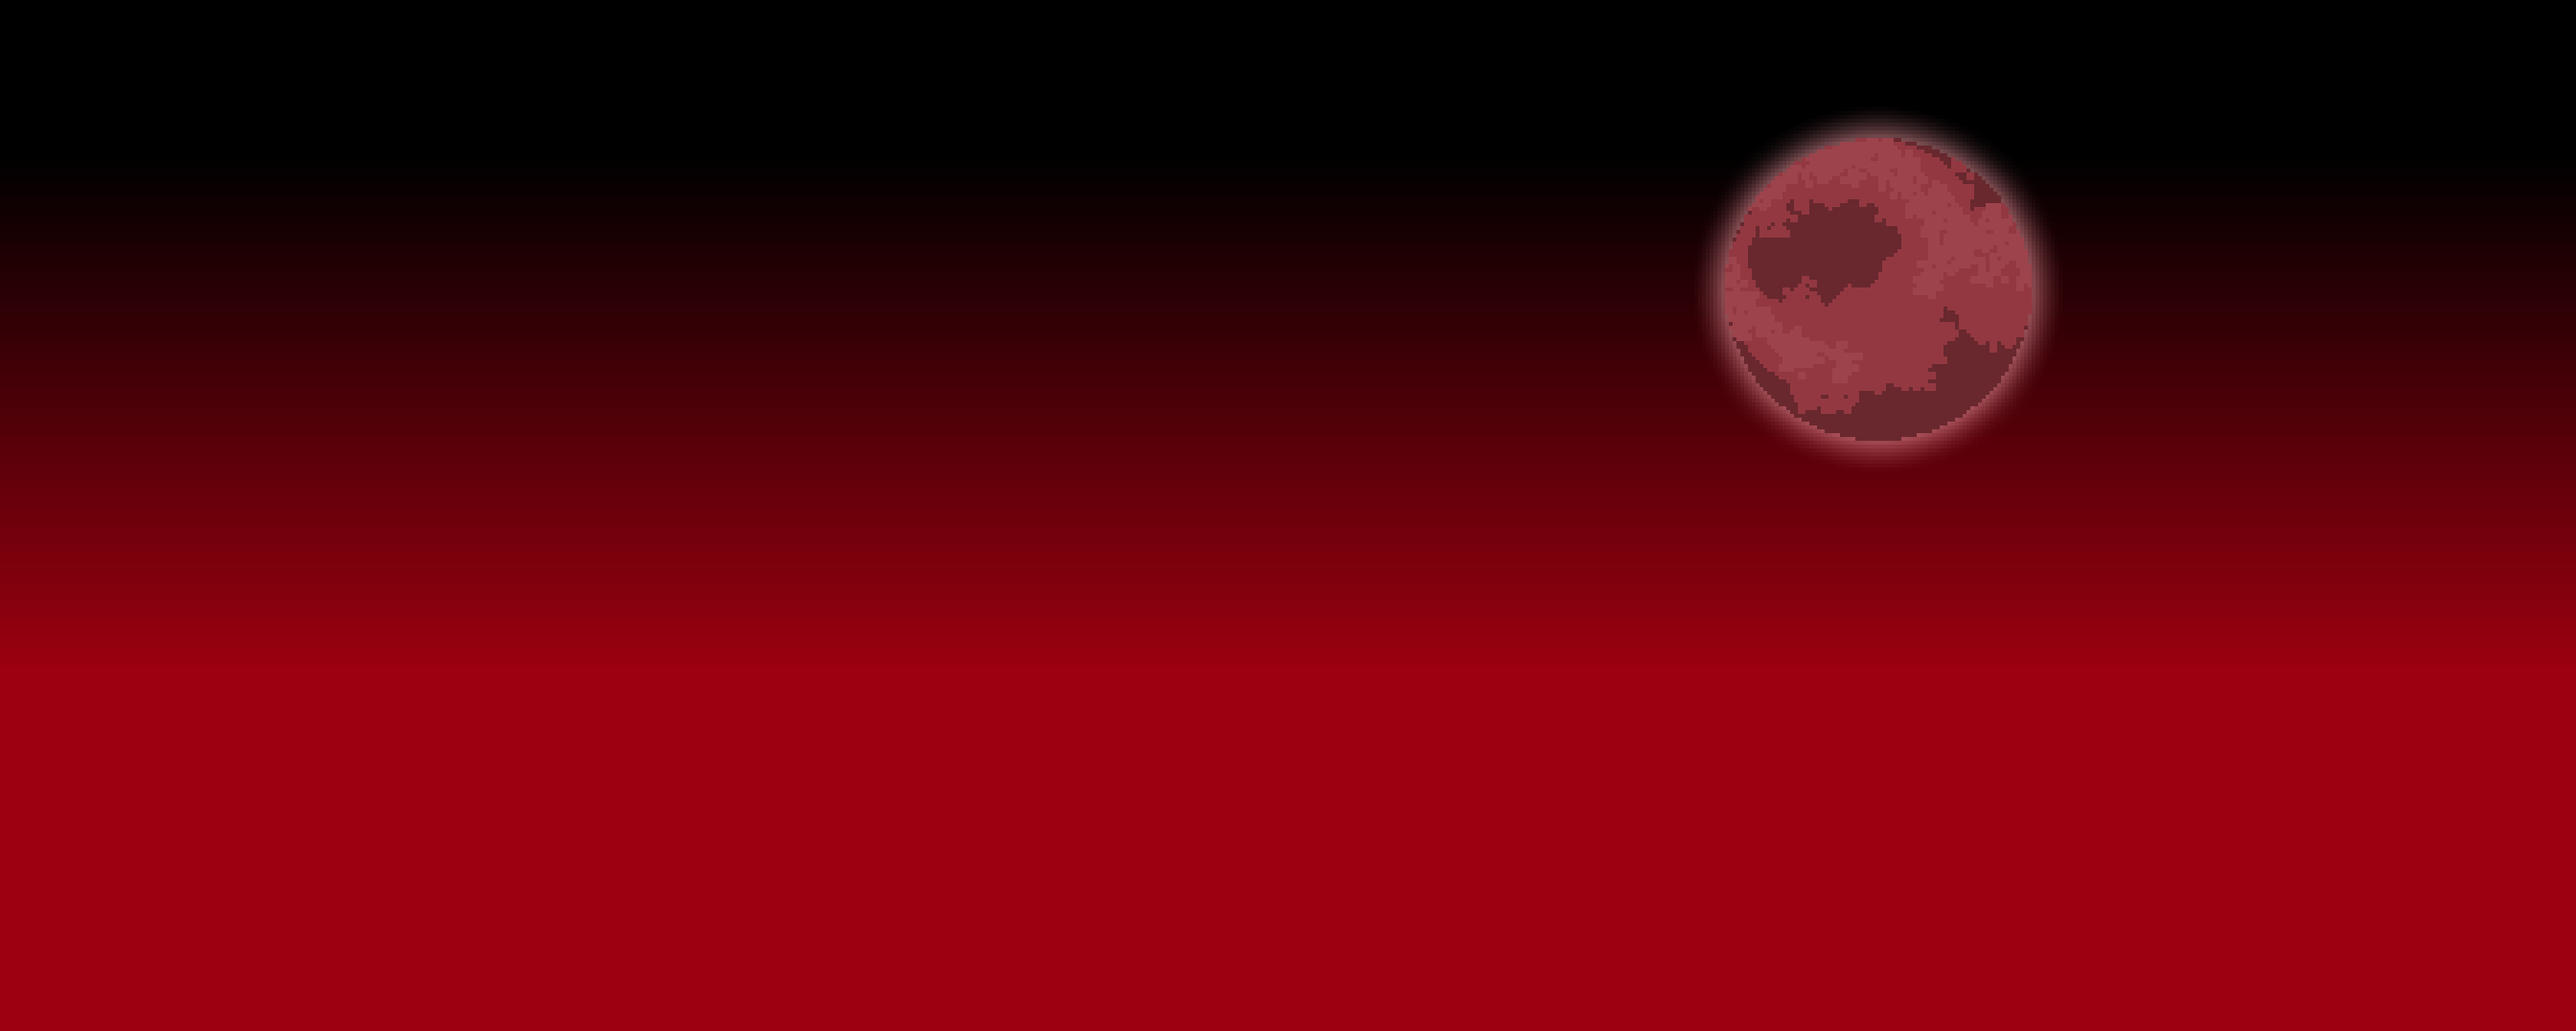
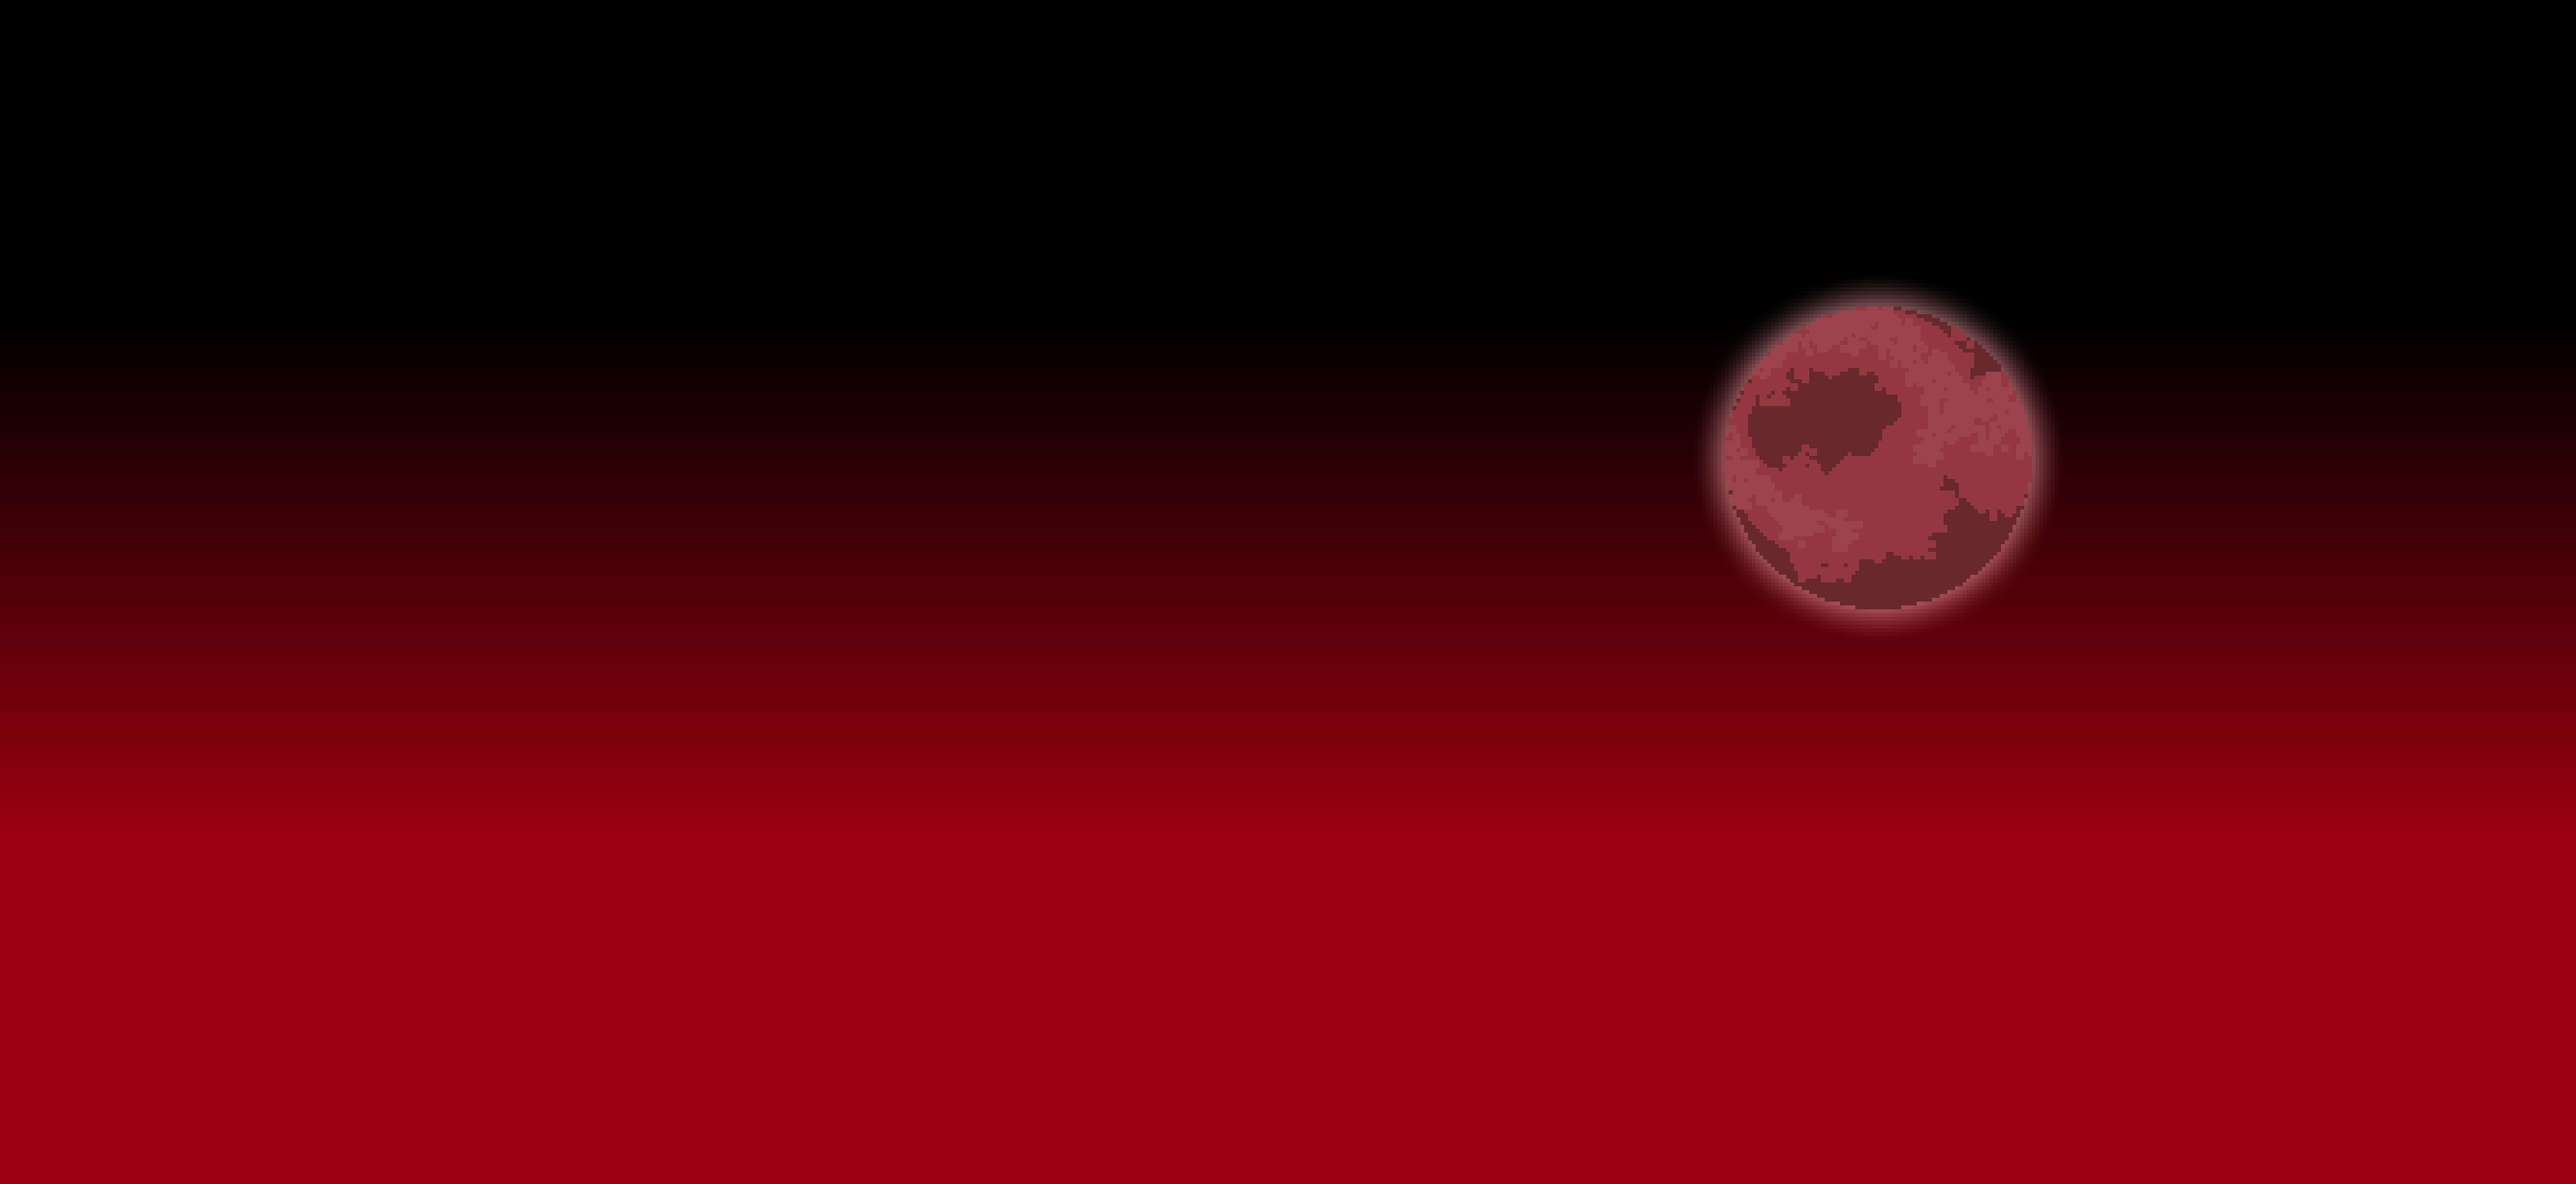
超背景

diff --git a/main.cpp b/main.cpp
@@ -9,17 +9,20 @@ int WINAPI WinMain(HINSTANCE, HINSTANCE, LPSTR, int) {
 	// ライブラリの初期化
 	Novice::Initialize(kWindowTitle, SCREEN_WIDTH, SCREEN_HEIGHT);
 
-	//あしをひっぱるな！！！しがみつき！！！
+	//頑張ったな！！！しがみつき！！！
 
 	Controller::SetLeftStickDeadZone(0, 14000);
 
+	clock_t offset;
+	offset = clock();
+	int FPS = 0;
 
 	int tex = Novice::LoadTexture("white1x1.png");
-	int quadRedEffectImg = Novice::LoadTexture("./Resources/Images/Effect01.png");
-	int circleRedEffectImg = Novice::LoadTexture("./Resources/Images/Effect02.png");
+	int quadRedEffectImg = Novice::LoadTexture("./Resources/Images/Effect01n.png");
+	int circleRedEffectImg = Novice::LoadTexture("./Resources/Images/Effect02n.png");
 	int circleEffectImg = Novice::LoadTexture("./Resources/Images/Effect03.png");
-	int quadBlueEffectImg = Novice::LoadTexture("./Resources/Images/Effect04.png");
-	int CircleBlueEffectImg = Novice::LoadTexture("./Resources/Images/Effect05.png");
+	int quadBlueEffectImg = Novice::LoadTexture("./Resources/Images/Effect04n.png");
+	int CircleBlueEffectImg = Novice::LoadTexture("./Resources/Images/Effect05n.png");
 	int mainaBladeImg = Novice::LoadTexture("./Resources/Images/mainblade.png");
 	int upMainaBladeImg = Novice::LoadTexture("./Resources/Images/upmainblade.png");
 	int downMainaBladeImg = Novice::LoadTexture("./Resources/Images/downmainblade.png");
@@ -42,9 +45,12 @@ int WINAPI WinMain(HINSTANCE, HINSTANCE, LPSTR, int) {
 	int bossleftarmImg = Novice::LoadTexture("./Resources/Images/Boss/LeftArm.png");
 	int ziki = Novice::LoadTexture("./Resources/Images/ziki.png");
 
-	int bg1_gra = Novice::LoadTexture("./Resources/images/Background/Background1.png");
+	int bg1_gra = Novice::LoadTexture("./Resources/images/Background/Background1.png"); //bg = background
 	int bg2_gra = Novice::LoadTexture("./Resources/images/Background/Background2.png");
 	int bg3_gra = Novice::LoadTexture("./Resources/images/Background/Background3.png");
+	int bg5_gra = Novice::LoadTexture("./Resources/images/Background/Background5.png");
+	int bg6_gra = Novice::LoadTexture("./Resources/images/Background/Background6.png");
+	int bg7_gra = Novice::LoadTexture("./Resources/images/Background/Background7.png");
 
 	//int background = Novice::LoadTexture("./Resources/Images/background.png");
 	Randam::SRAND();
@@ -63,7 +69,7 @@ int WINAPI WinMain(HINSTANCE, HINSTANCE, LPSTR, int) {
 		///
 		/// ↓更新処理ここから
 		///
-		screen.Scroll_update(playermain.GetPlayerQuad().LeftTop.x, 1.25);
+		screen.Scroll_update(playermain.GetPlayerQuad().LeftTop.x, playermain.GetPlayerQuad().LeftTop.y, 1.25);
 
 		switch (scene)
 		{
@@ -89,7 +95,7 @@ int WINAPI WinMain(HINSTANCE, HINSTANCE, LPSTR, int) {
 					if(boss.IsLife==true) {
 
 						///デバック用
-						boss.IsLife = false;
+						//boss.IsLife = false;
 						///デバック用
 
 						boss.UpDate();
@@ -215,6 +221,9 @@ int WINAPI WinMain(HINSTANCE, HINSTANCE, LPSTR, int) {
 		}
 		
 		
+		
+		FPS++;
+		if (FPS >= 60) FPS = 0;
 
 		///
 		/// ↑更新処理ここまで
@@ -258,7 +267,7 @@ int WINAPI WinMain(HINSTANCE, HINSTANCE, LPSTR, int) {
 			//ステージ描画処理
 			//背景d
 
-			background.Draw(screen, bg1_gra, bg2_gra, bg3_gra);
+			background.Draw(screen, bg1_gra, bg2_gra, bg3_gra,bg5_gra,bg6_gra, bg7_gra);
 
 			//Novice::DrawBox(0, 0, SCREEN_WIDTH, SCREEN_HEIGHT, 0.0f, BLACK, kFillModeSolid);
 			//Novice::SetBlendMode(kBlendModeAdd);
@@ -374,6 +383,10 @@ int WINAPI WinMain(HINSTANCE, HINSTANCE, LPSTR, int) {
 			Feed::Feedout(feedoutT, 0.05f, SCREEN_WIDTH, SCREEN_HEIGHT);
 		}
 		
+		
+		Novice::ScreenPrintf(0, 400, "FPS:%0.1f", 1.0f / ((double)(clock() - offset) / CLOCKS_PER_SEC));
+		offset = clock();
+
 		///
 		/// ↑描画処理ここまで
 		///

diff --git a/PlayerMain.cpp b/PlayerMain.cpp
@@ -27,14 +27,14 @@ void PlayerMain::Move()
 	//Speed.y = 0;
 
 	if (Controller::IsStickDirection(0, Controller::lsdRIGHT) || Key::IsPressed(DIK_D)) {
-		Speed.x = 10;
+		Speed.x = 8;
 		if (attackstarttime == -1) {
 			FaceRight = true;
 		}
 	}
 
 	if (Controller::IsStickDirection(0, Controller::lsdLEFT) || Key::IsPressed(DIK_A)) {
-		Speed.x = -10;
+		Speed.x = -8;
 		if (attackstarttime == -1) {
 			FaceRight = false;
 		}
@@ -44,12 +44,14 @@ void PlayerMain::Move()
 		if (attackstarttime == -1) {
 			FaceUp = true;
 		}
+		//Speed.y = 1;
 	}
 	else {
 		if (attackstarttime == -1) {
 			FaceUp = false;
 		}
 	}
+
 
 	if (Controller::IsStickDirection(0, Controller::lsdDOWN) || Key::IsPressed(DIK_S)) {
 		//Speed.y = -1;
@@ -97,7 +99,7 @@ void PlayerMain::Move()
 			}
 		}
 		DashTime++;
-		if (DashTime > 2) {
+		if (DashTime > 6) {
 			DashFlag = false;
 			DashAvoid = false;
 			DashTime = 0;
@@ -121,6 +123,8 @@ void PlayerMain::Move()
 			Gravity -= 0.18;
 		}
 	}
+	
+	//Gravity = 0;
 
 	Player.Pos.x += Speed.x + OtherSpeed.x + HitBack.x;
 	Player.Pos.y += (Speed.y + OtherSpeed.y + HitBack.y + Gravity) * G;
@@ -339,12 +343,12 @@ void PlayerMain::Draw(Screen& screen,int texture)
 
 	if (HitCoolDown % 2 == 0 || HitCoolDown == 0) {
 			screen.DrawQuad2Renban(ImageQuad, Player.SrcX, 0, 40, 64, 1, 60, Player.AnimeFlame, texture, Player.Color, FaceRight);
-			screen.DrawQuad2Renban(Player.Quad, Player.SrcX, 0, 40, 64, 1, 60, Player.AnimeFlame, 0, Player.Color, FaceRight);
+			//screen.DrawQuad2Renban(Player.Quad, Player.SrcX, 0, 40, 64, 1, 60, Player.AnimeFlame, 0, Player.Color, FaceRight);
 	}
 
 	screen.DrawBox(Sword.Quad.LeftTop.x, Sword.Quad.LeftTop.y, Sword.HitBoxSize.x, Sword.HitBoxSize.y, 0, 0x0000FF7F, kFillModeSolid);
 
-	screen.DrawLine(0, FLOOR, SCREEN_WIDTH * 1.25, FLOOR, RED);
+	//screen.DrawLine(0, FLOOR, SCREEN_WIDTH * 1.25, FLOOR, RED);
 
 	for (int i = 0; i < HP; i++) {
 		Novice::DrawEllipse( 100 + 100 * i, 930 , 50,50,0, 0xFF3399FF,kFillModeSolid);

diff --git a/Background.cpp b/Background.cpp
@@ -1,11 +1,15 @@
 #include "Background.h"
 
-void Background::Draw(Screen& screen, int bg1, int bg2, int bg3)
+void Background::Draw(Screen& screen, int bg1, int bg2, int bg3, int bg5, int bg6, int bg7)
 {
 
-	Novice::DrawSprite(-400 - screen.Scroll.x * 0.1, 0, bg3, 1, 1, 0, WHITE);
-	Novice::DrawSprite(0 - screen.Scroll.x * 0.9, 0, bg1, 1, 1, 0, WHITE);
-	Novice::DrawSprite(0 - screen.Scroll.x, 0, bg2, 1, 1, 0, WHITE);
+	Novice::DrawSprite(-400 - screen.Scroll.x * 0.02, -160 + screen.Scroll.y * 0.02, bg3, 1, 1, 0, WHITE);
+	//Novice::DrawSprite(0 - screen.Scroll.x * 0.9, 760 + screen.Scroll.y * 0.5, bg5, 1, 1, 0, WHITE);
+	Novice::DrawSprite(0 - screen.Scroll.x * 0.8, 532 + screen.Scroll.y * 0.35, bg7, 1, 1, 0, WHITE);
+	Novice::DrawSprite(0 - screen.Scroll.x * 0.8, 436 + screen.Scroll.y * 0.42, bg6, 1, 1, 0, WHITE);
+	Novice::DrawSprite(0 - screen.Scroll.x * 0.8, 436 + screen.Scroll.y * 0.5, bg1, 1, 1, 0, WHITE);
+	Novice::DrawSprite(0 - screen.Scroll.x * 0.9, 872 + screen.Scroll.y * 0.8, bg5, 1, 1, 0, WHITE);
+	Novice::DrawSprite(0 - screen.Scroll.x, 880 + screen.Scroll.y * 1.01, bg2, 1, 1, 0, WHITE);
 
 
 }

diff --git a/Screen.cpp b/Screen.cpp
@@ -8,11 +8,12 @@ Screen::Screen() {
 	Scroll.setZero();
 	ScreenShake.setZero();
 	Scroll_Fixed_Value_X = SCREEN_WIDTH/2;
+	Scroll_Fixed_Value_Y = SCREEN_HEIGHT / 2 - 20;
 	Zoom = { 1.0f, 1.0f };
 	Ishit = false;
 };
 
-void Screen::Scroll_update(float playerX, float map_sheets_number) {
+void Screen::Scroll_update(float playerX, float playerY,float map_sheets_number) {
 
 	if (playerX >= Scroll_Fixed_Value_X && playerX <= Width * map_sheets_number - (Width - Scroll_Fixed_Value_X)) {
 
@@ -20,6 +21,14 @@ void Screen::Scroll_update(float playerX, float map_sheets_number) {
 	}
 	if (playerX < Scroll_Fixed_Value_X) {
 		Scroll.x = 0;
+	}
+
+	if (playerY >= Scroll_Fixed_Value_Y && playerY <= Height * map_sheets_number - (Height - Scroll_Fixed_Value_Y)) {
+
+		Scroll.y = playerY - Scroll_Fixed_Value_Y;
+	}
+	if (playerY < Scroll_Fixed_Value_Y) {
+		Scroll.y = 0;
 	}
 
 };

diff --git a/PlayerMain.h b/PlayerMain.h
@@ -36,7 +36,7 @@ class PlayerMain
 	bool FaceUp = false;
 
 	GeneralStruct Player = {
-		{100,500},
+		{100,0},
 		{ 40,70 },
 		{ {Player.Pos.x - Player.HitBoxSize.x / 2, Player.Pos.y + Player.HitBoxSize.y / 2},
 		int(Player.HitBoxSize.x),int(Player.HitBoxSize.y)},
@@ -75,8 +75,8 @@ class PlayerMain
 
 	bool DashFlag = false;
 	int DashTime = 0;
-	const int DASHSPEED = 34;
-	int DashCoolTime = 20;
+	const int DASHSPEED = 20;
+	int DashCoolTime = 60;
 	bool DashFaseRight = true;
 	bool DashAvoid = false;
 	

diff --git a/main.h b/main.h
@@ -15,6 +15,7 @@
 #include "Effect2.h"
 #include "Effect.h"
 #include "Background.h"
+#include <time.h>
 
 Screen screen;
 PlayerMain playermain;
@@ -67,6 +68,7 @@ void InitFeedout() {
 void Init() {
 
 }
+
 
 
 

diff --git a/Background.h b/Background.h
@@ -9,6 +9,6 @@ private:
 
 public:
 
-	void Draw(Screen& screen, int bg1, int bg2, int bg3);
+	void Draw(Screen& screen, int bg1, int bg2, int bg3, int bg5, int bg6,int bg7);
 };
 
